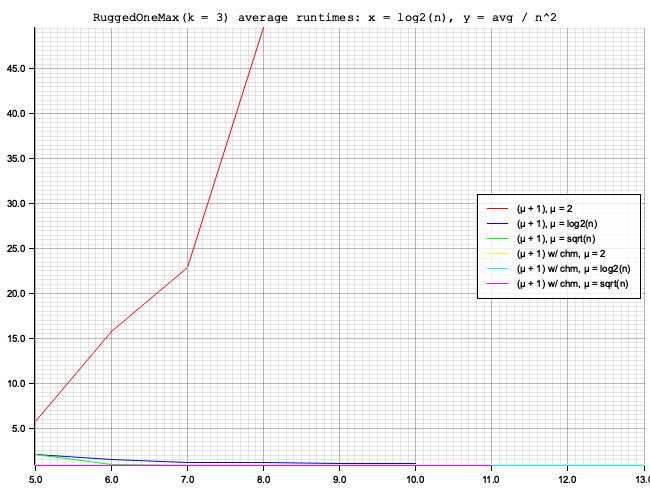
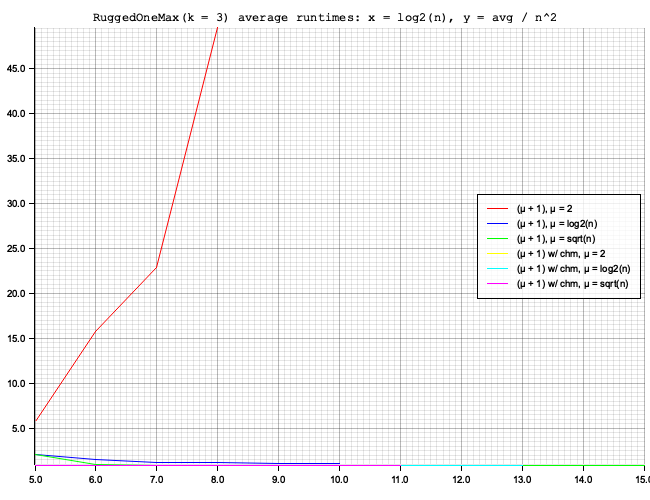
:arrow_up: update

diff --git a/src/experiment/rugged_runtime/run.rs b/src/experiment/rugged_runtime/run.rs
@@ -22,56 +22,54 @@ async fn rugged_runtime() {
         .build()
         .expect("thread pool building");
 
-    let ns: Vec<usize> = (5..=9).map(|x| 1 << x).collect();
+    let ns: Vec<usize> = (14..=16).map(|x| 1 << x).collect();
 
-    // (μ + 1)
+    #[allow(clippy::type_complexity)]
+    let mu_getters: Vec<(&str, Box<dyn Fn(usize) -> usize>)> = vec![
+        // ("2", Box::new(|_: usize| 2)),
+        // ("log2(n)", Box::new(|x: usize| (x as f64).log2() as usize)),
+        ("sqrt(n)", Box::new(|x: usize| (x as f64).sqrt() as usize)),
+    ];
 
     // #[allow(clippy::type_complexity)]
-    // let mu_getters: Vec<(&str, Box<dyn Fn(usize) -> usize>)> = vec![
-    //     ("2", Box::new(|_: usize| 2)),
+    // let lambda_getters: Vec<(&str, Box<dyn Fn(usize) -> usize>)> = vec![
+    //     (
+    //         "sqrt(log2(n))",
+    //         Box::new(|x: usize| (x as f64).log2().sqrt() as usize),
+    //     ),
     //     ("log2(n)", Box::new(|x: usize| (x as f64).log2() as usize)),
     //     ("sqrt(n)", Box::new(|x: usize| (x as f64).sqrt() as usize)),
     // ];
 
-    #[allow(clippy::type_complexity)]
-    let lambda_getters: Vec<(&str, Box<dyn Fn(usize) -> usize>)> = vec![
-        (
-            "sqrt(log2(n))",
-            Box::new(|x: usize| (x as f64).log2().sqrt() as usize),
-        ),
-        ("log2(n)", Box::new(|x: usize| (x as f64).log2() as usize)),
-        ("sqrt(n)", Box::new(|x: usize| (x as f64).sqrt() as usize)),
-    ];
-
     for n in ns {
         let function = function::RuggedOneMax::new(3, n);
 
-        // for (mu_getter_name, mu_getter) in mu_getters.iter() {
-        //     let mu = mu_getter(n);
+        for (mu_getter_name, mu_getter) in mu_getters.iter() {
+            let mu = mu_getter(n);
 
-        //     let mu_common = algorithm::mu_plus_one::Common::new(mu, 0.99, 1.0 / (n as f64));
-        //     println!("{mu_getter_name}");
-        //     run_algorithm(&runtime, mu_common, function, RUNS).await;
+            let mu_common = algorithm::mu_plus_one::Common::new(mu, 0.99, 1.0 / (n as f64));
+            println!("{mu_getter_name}");
+            run_algorithm(&runtime, mu_common, function, RUNS).await;
 
-        //     let mu_chm =
-        //         algorithm::mu_plus_one::ConvexHullMaximization::new(mu, 0.99, 1.0 / (n as f64));
-        //     println!("{mu_getter_name}");
-        //     run_algorithm(&runtime, mu_chm, function, RUNS).await;
-        // }
-        // println!();
-
-        for (lambda_getter_name, lambda_getter) in lambda_getters.iter() {
-            let lambda = lambda_getter(n);
-            let one_plus_lambda_lambda = algorithm::OnePlusLambdaLambda::new(
-                lambda,
-                lambda as f64 / function.n() as f64,
-                1.0 / lambda as f64,
-            );
-
-            println!("{lambda_getter_name}");
-            run_algorithm(&runtime, one_plus_lambda_lambda, function, RUNS).await;
+            // let mu_chm =
+            //     algorithm::mu_plus_one::ConvexHullMaximization::new(mu, 0.99, 1.0 / (n as f64));
+            // println!("{mu_getter_name}");
+            // run_algorithm(&runtime, mu_chm, function, RUNS).await;
         }
         println!();
+
+        // for (lambda_getter_name, lambda_getter) in lambda_getters.iter() {
+        //     let lambda = lambda_getter(n);
+        //     let one_plus_lambda_lambda = algorithm::OnePlusLambdaLambda::new(
+        //         lambda,
+        //         lambda as f64 / function.n() as f64,
+        //         1.0 / lambda as f64,
+        //     );
+
+        //     println!("{lambda_getter_name}");
+        //     run_algorithm(&runtime, one_plus_lambda_lambda, function, RUNS).await;
+        // }
+        // println!();
     }
 }
 

diff --git a/src/experiment/rugged_runtime/draw.rs b/src/experiment/rugged_runtime/draw.rs
@@ -166,6 +166,8 @@ fn draw_rugged_3_mu1() {
                 (2048.0, 87598.3046875),
                 (4096.0, 210856.359375),
                 (8192.0, 519832.03125),
+                (16384.0, 1220096.4296875),
+                (32768.0, 2934197.6015625),
             ],
         ),
         (
@@ -236,6 +238,13 @@ fn draw_rugged_3_mu1() {
         "RuggedOneMax(k = 3) average runtimes: x = log2(n), y = avg / (n log2(n))",
         |(n, iters)| (n.log2(), iters / (n * n.log2())),
         results[2..].to_vec(),
+    );
+
+    draw_runtime(
+        "rugged-runtime/rugged-one-max-3/mu-plus-one/common-sqrt",
+        "RuggedOneMax(k = 3) average runtimes: x = log2(n), y = avg / (n log2(n))",
+        |(n, iters)| (n.log2(), iters / (n * n.log2())),
+        results[2..=2].to_vec(),
     );
 
     // draw_runtime(
